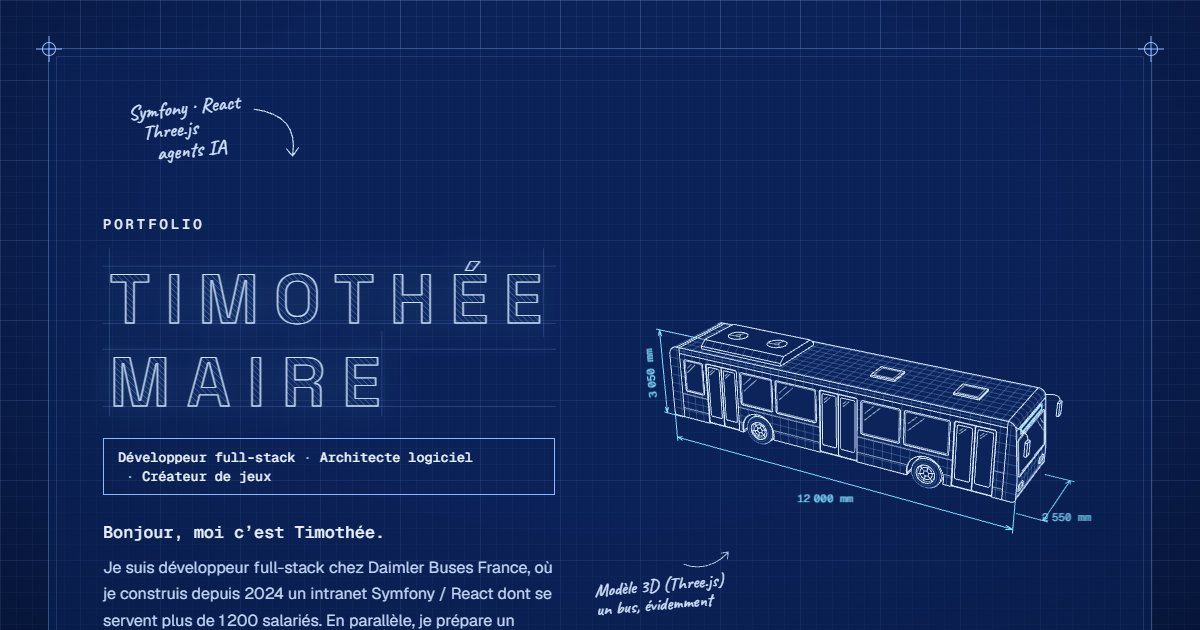
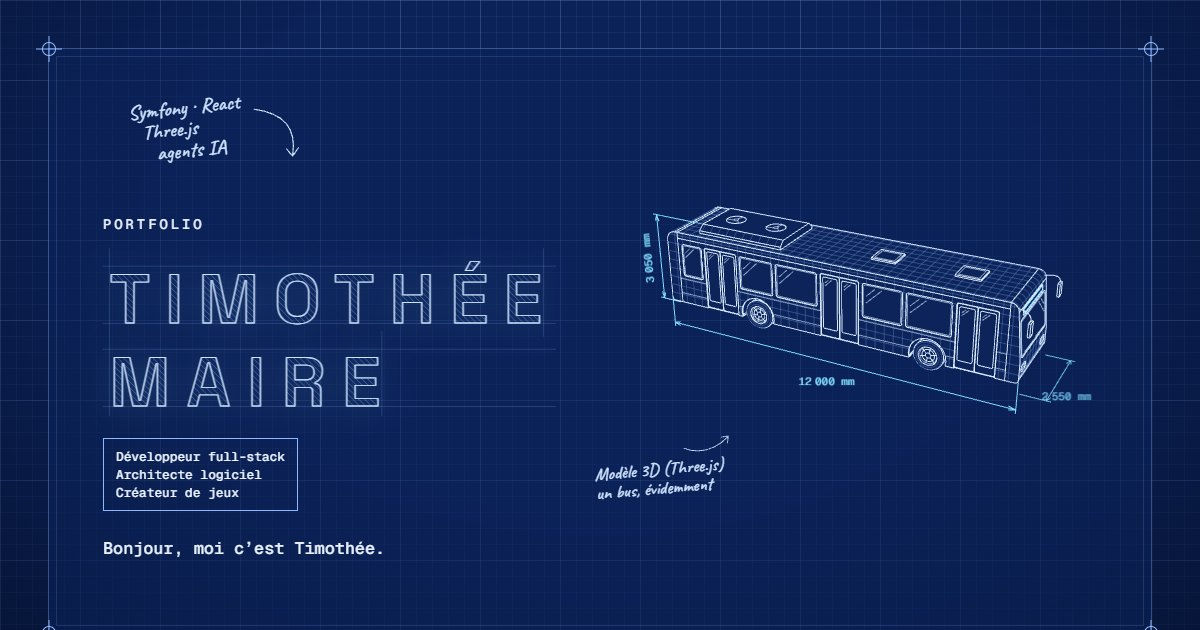
fix: corrections de la passe de vérification, captures finales
Suite à la vérification du relecteur (Fable 5.2) sur 7613fae :

- Hero : le paragraphe d'accroche entre en glissement seul, sans fondu.
  Parti d'une opacité nulle, il n'était compté comme contenu principal
  affiché (LCP) qu'à la fin de l'intro, vers 4,2 s ; il l'est
  maintenant vers 1 s, comme sans intro.
- Image de partage régénérée après le correctif du cartouche des rôles,
  sans paragraphe coupé ni commandes du bus.
- Captures : les animations de l'intro sont figées et placées à chaque
  instant, pour quatre images réellement distinctes.
- Impression : la légende du dessin d'« À propos » est allumée.
- README : image de partage, version imprimable, étape de relecture.
- Captures de contrôle (desktop 1440, mobile 390, FR/EN, deux thèmes,
  intro, fiche projet, vue éclatée) dans docs/refonte-blueprint/captures.

diff --git a/src/styles/base.css b/src/styles/base.css
@@ -483,7 +483,16 @@ button {
     break-inside: avoid-page;
   }
 
-  /* Le dessin d'« À propos » s'imprime entier, quel que soit l'endroit où l'on avait défilé. */
+  /* Le dessin d'« À propos » s'imprime entier, quel que soit l'endroit où l'on avait défilé,
+     et sa légende est allumée en conséquence. */
+  .about-legend li {
+    color: var(--accent);
+  }
+
+  .about-legend li::before {
+    background: currentColor;
+  }
+
   .bus-sketch {
     --s1: 1 !important;
     --s2: 1 !important;

diff --git a/src/styles/hero.css b/src/styles/hero.css
@@ -336,7 +336,16 @@
 }
 
 .hero[data-intro='play'] .hero-text {
+  /* Glissement seul, sans fondu : un texte qui part d'une opacité nulle n'est compté comme
+     « contenu principal affiché » (LCP) qu'à la fin de l'intro, vers 4,2 s au lieu de 0,6 s. */
+  animation-name: rise-y;
   animation-delay: 0.25s;
+}
+
+@keyframes rise-y {
+  from {
+    transform: translateY(14px);
+  }
 }
 
 .hero[data-intro='play'] :is(.hero-actions, .hero-facts) {

diff --git a/readme.md b/readme.md
@@ -21,7 +21,8 @@ Les repères de section ne sont jamais numérotés : crochets, barres obliques e
 - une section IA (le trajet d'une mission confiée à des agents, les techniques utilisées) et une nomenclature des compétences ;
 - une ville procédurale en Three.js et deux mini-jeux (2048, Wordle) ;
 - une nappe filaire qui ondule derrière le contact ;
-- thème et langue mémorisés localement, aucun traceur, aucune ressource externe (polices servies par le site).
+- thème et langue mémorisés localement, aucun traceur, aucune ressource externe (polices servies par le site) ;
+- une version imprimable : à l'impression, le site passe en « tirage papier » et affiche tout son contenu.
 
 Les scènes Three.js ne sont téléchargées qu'à l'approche de l'écran, mises en pause hors écran, et remplacées par un dessin SVG si WebGL manque.
 
@@ -38,6 +39,7 @@ Les scènes Three.js ne sont téléchargées qu'à l'approche de l'écran, mises
 | les vignettes des projets | `src/components/Sketch.tsx` |
 | l'intro du hero | `src/components/HeroName.tsx`, `Hero.tsx` et la fin de `src/styles/hero.css` |
 | les mini-jeux | `src/games/` |
+| l'image de partage (LinkedIn, etc.) | `public/og-image.jpg`, régénérée par `node scripts/og-image.mjs` |
 
 Les images affichées sont des WebP générés à partir des originaux rangés dans `assets-source/` : `node assets-source/convert-images.mjs assets-source public` (avec `sharp` installé).
 
@@ -62,7 +64,9 @@ npx playwright install chromium
 node scripts/captures.mjs http://localhost:5173
 ```
 
-Le brief et la maquette de cette refonte sont dans `docs/refonte-blueprint/`.
+Image de partage (1 200 × 630, tirée du hero) : `node scripts/og-image.mjs http://localhost:5173`.
+
+Le brief et la maquette de cette refonte sont dans `docs/refonte-blueprint/`. Avant le build, la refonte a été relue par un second agent (Fable 5.2) : ses propositions ont été débattues point par point, retenues, amendées ou refusées, puis vérifiées sur le résultat.
 
 ## Sécurité
 
